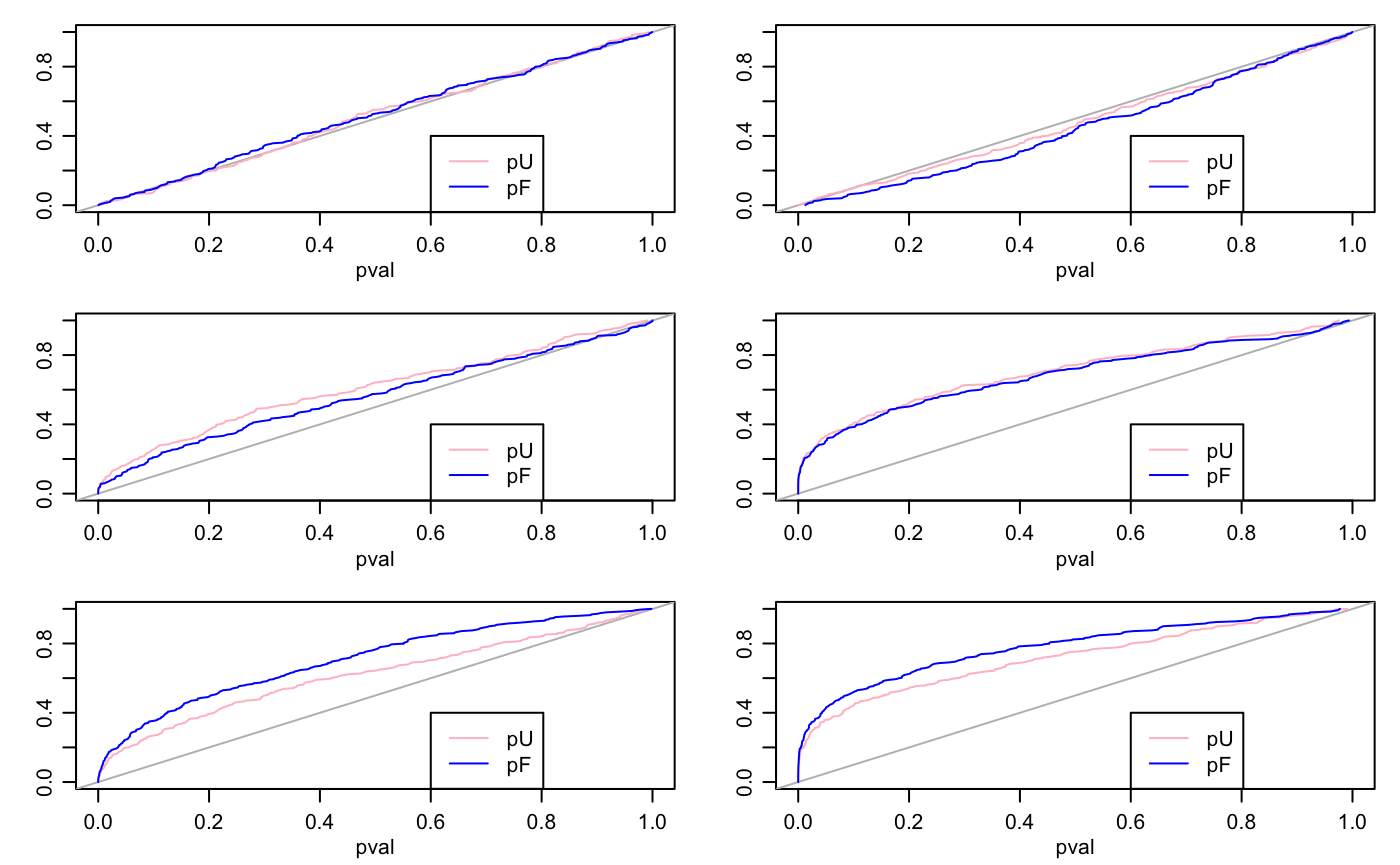
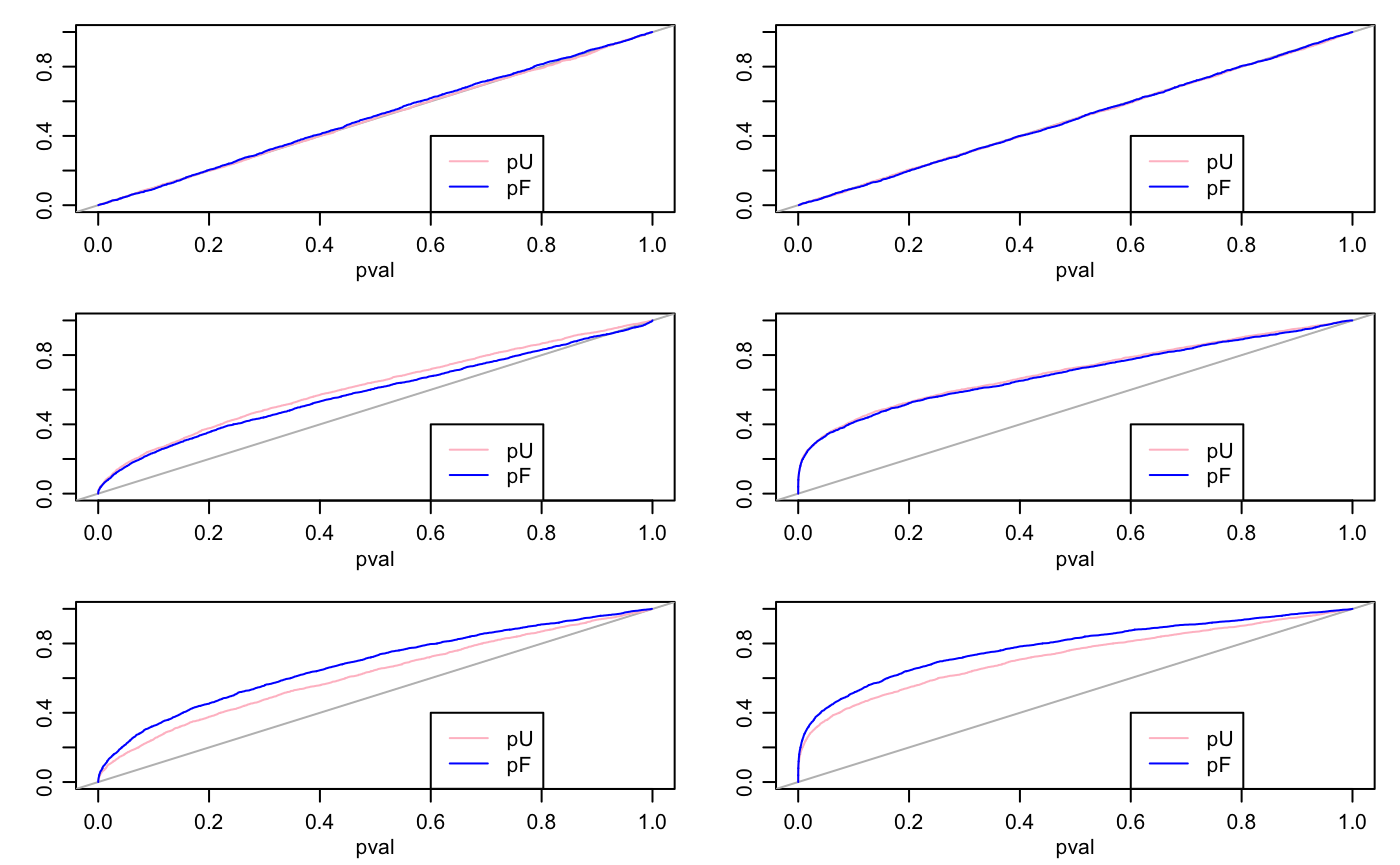
Update simstudy

diff --git a/docs/articles/simstudy.html b/docs/articles/simstudy.html
@@ -86,7 +86,7 @@
     
 <div class="sourceCode" id="cb1"><pre class="sourceCode r"><code class="sourceCode r"><a class="sourceLine" id="cb1-1" data-line-number="1"><span class="kw"><a href="https://rdrr.io/r/base/library.html">library</a></span>(FABInference)</a></code></pre></div>
 <div class="sourceCode" id="cb2"><pre class="sourceCode r"><code class="sourceCode r"><a class="sourceLine" id="cb2-1" data-line-number="1">#### sim study  </a>
-<a class="sourceLine" id="cb2-2" data-line-number="2">n&lt;-<span class="dv">100</span> ; p&lt;-<span class="dv">25</span> ; nsim&lt;-<span class="dv">10</span></a>
+<a class="sourceLine" id="cb2-2" data-line-number="2">n&lt;-<span class="dv">100</span> ; p&lt;-<span class="dv">25</span> ; nsim&lt;-<span class="dv">100</span></a>
 <a class="sourceLine" id="cb2-3" data-line-number="3"></a>
 <a class="sourceLine" id="cb2-4" data-line-number="4"><span class="kw"><a href="https://rdrr.io/r/graphics/par.html">par</a></span>(<span class="dt">mfcol=</span><span class="kw"><a href="https://rdrr.io/r/base/c.html">c</a></span>(<span class="dv">3</span>,<span class="dv">2</span>),<span class="dt">mar=</span><span class="kw"><a href="https://rdrr.io/r/base/c.html">c</a></span>(<span class="dv">3</span>,<span class="dv">3</span>,<span class="dv">1</span>,<span class="dv">1</span>),<span class="dt">mgp=</span><span class="kw"><a href="https://rdrr.io/r/base/c.html">c</a></span>(<span class="fl">1.75</span>,.<span class="dv">75</span>,<span class="dv">0</span>))</a>
 <a class="sourceLine" id="cb2-5" data-line-number="5"><span class="cf">for</span>(model <span class="cf">in</span> <span class="kw"><a href="https://rdrr.io/r/base/c.html">c</a></span>(<span class="st">"Gaussian"</span>,<span class="st">"Poisson"</span>)){ </a>
